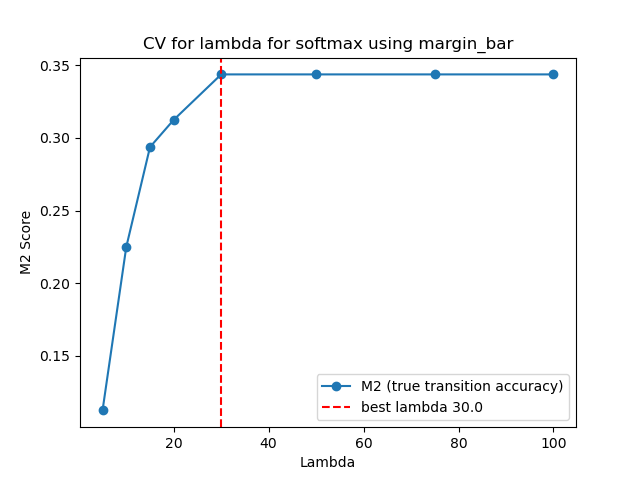
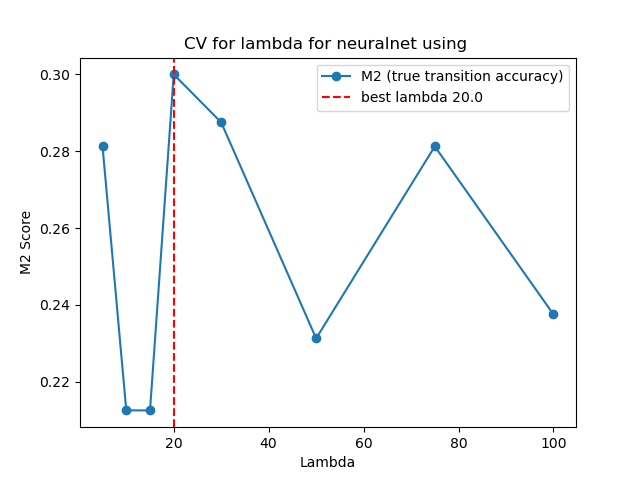
change

diff --git a/config.py b/config.py
@@ -46,7 +46,7 @@ class DataConfig:
 @dataclass
 class SupervisedConfig:
     #Data parameters
-    penalty_type : str = "margin_bar" #Type of penalty we will be appending. Leave empty if we dont want to apply penalty
+    penalty_type : str = "distance" #Type of penalty we will be appending. Leave empty if we dont want to apply penalty
     evaluation_metric : int = 2 #1 or 2 for m1 or m2
     horizon : int = 21
 
@@ -55,7 +55,7 @@ class SupervisedConfig:
     testing_method : str = "walk_forward" # "walk forward" vs "standard"
     folds : int = 3
 
-    lam : float = 2.0
+    lam : float = 20.0
     lam_values : List[float] = None
     margin : float = 0.5
 
